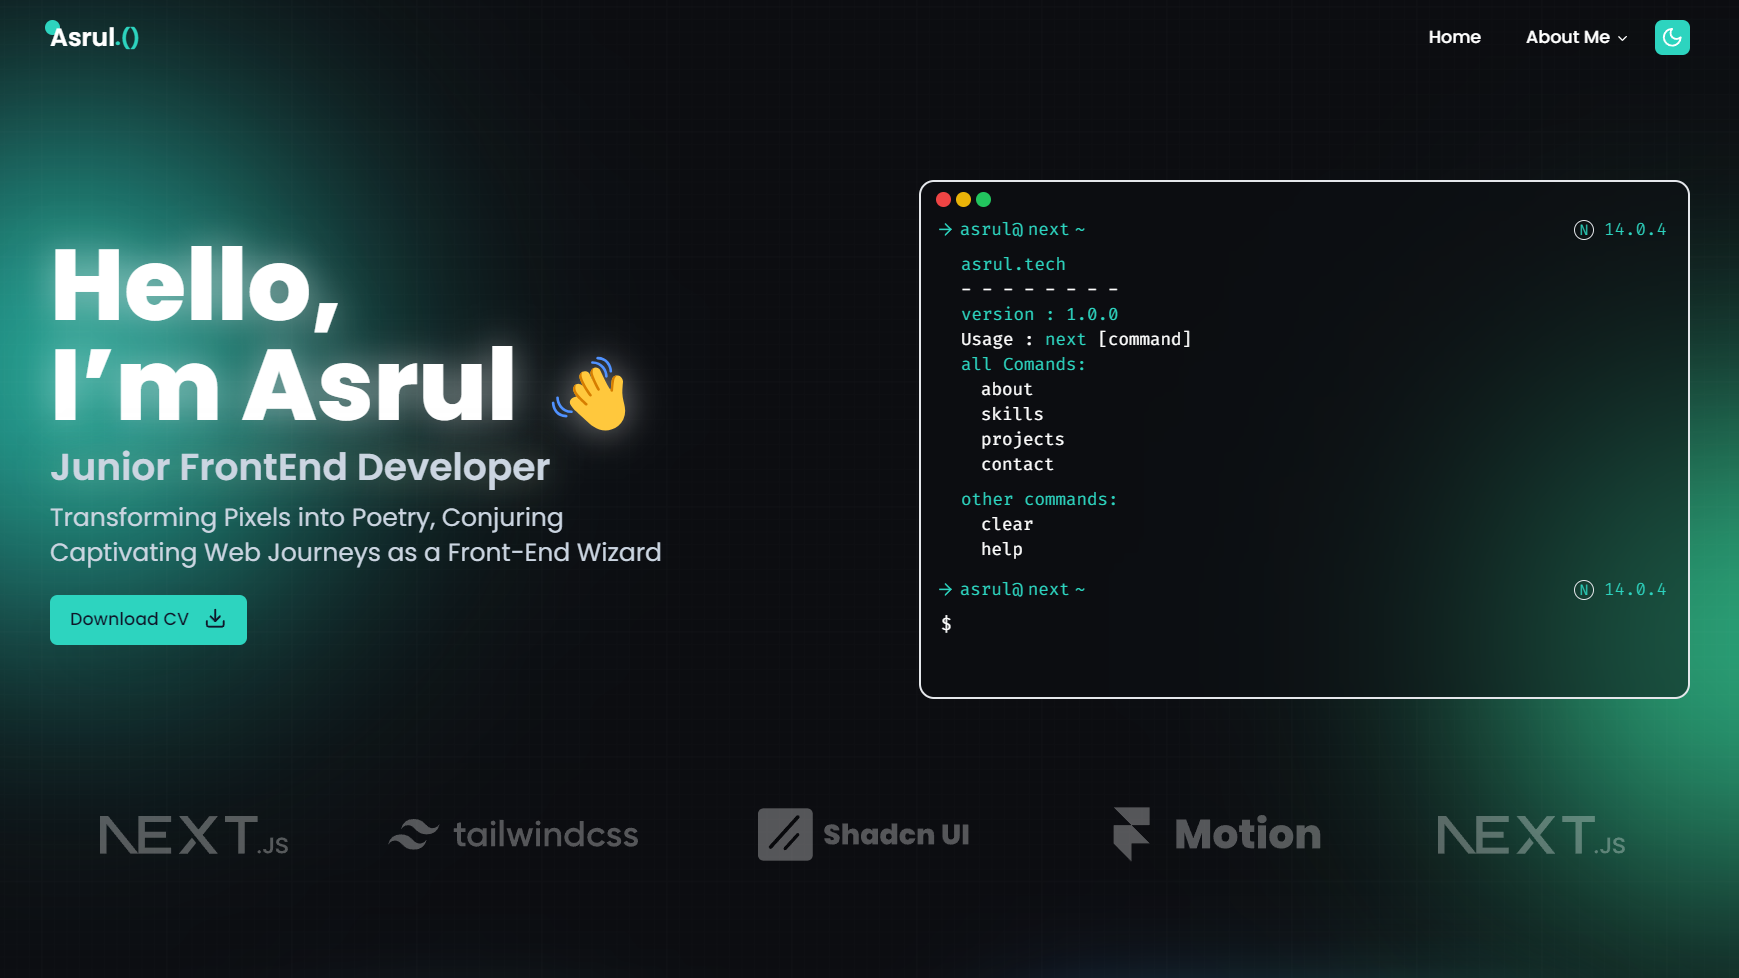
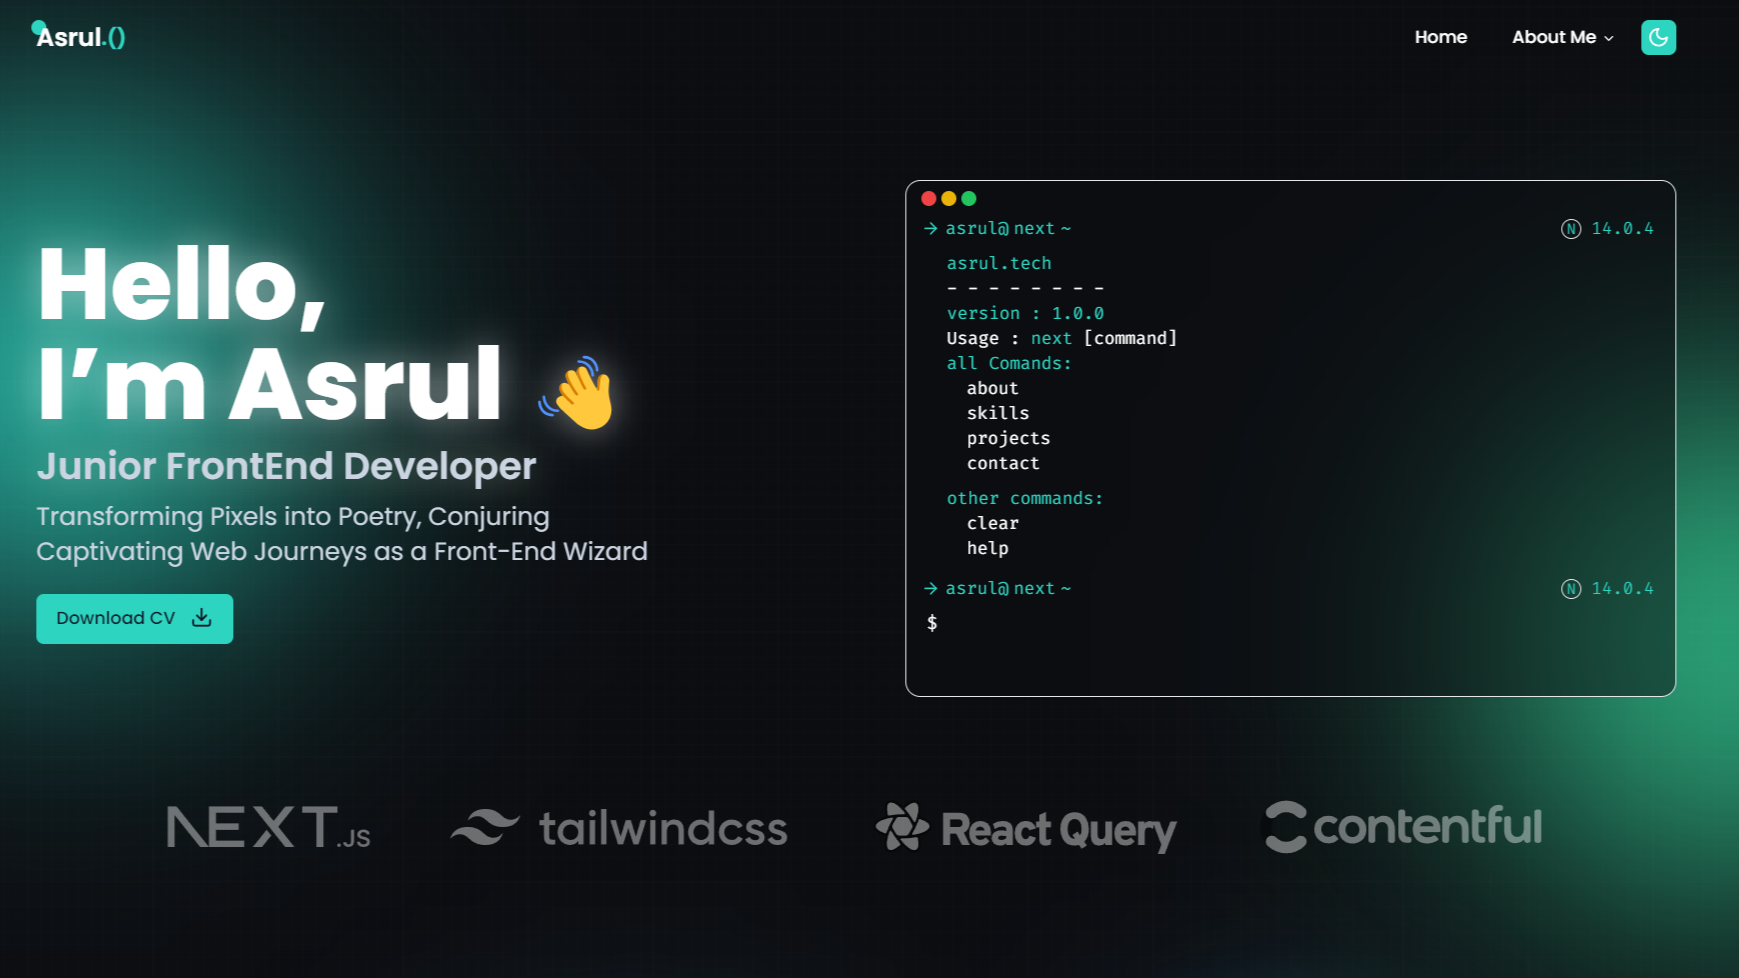
Feat : Improve accessibility

diff --git a/components/layouts/Navbar.tsx b/components/layouts/Navbar.tsx
@@ -45,7 +45,7 @@ export default function Navbar({}: Props) {
   }, [darkMode, setTheme]);
 
   return (
-    <nav
+    <header
       className={cn(
         `px-container fixed top-0 z-40 flex w-full  justify-between py-3 text-white transition-colors duration-700 ${
           isAtTop
@@ -62,54 +62,52 @@ export default function Navbar({}: Props) {
       </Link>
       {/* Mobile */}
       {screenWidth < 1024 ? (
-        <div className="">
-          <Sheet open={open}>
-            <SheetTrigger
-              onClick={() => {
-                setOpen(true);
-              }}
-              aria-label="Open Menu"
-              className={`${
-                open ? "hidden" : "block"
-              } text-slate-500 dark:text-white`}
-            >
-              <AlignLeft />
-            </SheetTrigger>
-            <SheetContent className="lg:hidden" setOpen={setOpen}>
-              <ul className="flex flex-col gap-7">
-                {menuItems.map((link) => (
-                  <li key={link.name}>
-                    <Link
-                      href={link.href}
-                      className={`flex items-center gap-5 text-lg text-slate-500 dark:text-white `}
-                    >
-                      <div
-                        className={cn(
-                          `flex h-11 w-11 items-center justify-center rounded-full border-2 border-slate-400 dark:border-white dark:text-white
+        <Sheet open={open}>
+          <SheetTrigger
+            onClick={() => {
+              setOpen(true);
+            }}
+            aria-label="Open Menu"
+            className={`${
+              open ? "hidden" : "block"
+            } text-slate-500 dark:text-white`}
+          >
+            <AlignLeft />
+          </SheetTrigger>
+          <SheetContent className="lg:hidden" setOpen={setOpen}>
+            <ul className="flex flex-col gap-7">
+              {menuItems.map((link) => (
+                <li key={link.name}>
+                  <Link
+                    href={link.href}
+                    className={`flex items-center gap-5 text-lg text-slate-500 dark:text-white `}
+                  >
+                    <div
+                      className={cn(
+                        `flex h-11 w-11 items-center justify-center rounded-full border-2 border-slate-400 dark:border-white dark:text-white
                           ${
                             pathname === link.href
                               ? "bg-white dark:text-primary"
                               : ""
                           }
                           `,
-                        )}
-                      >
-                        <link.Icon size={18} className={cn("")} />
-                      </div>
-                      {link.name}
-                    </Link>
-                  </li>
-                ))}
-              </ul>
-              <ThemeButton />
-            </SheetContent>
-          </Sheet>
-        </div>
+                      )}
+                    >
+                      <link.Icon size={18} className={cn("")} />
+                    </div>
+                    {link.name}
+                  </Link>
+                </li>
+              ))}
+            </ul>
+            <ThemeButton />
+          </SheetContent>
+        </Sheet>
       ) : (
         <div className="hidden lg:block">
           <NavMenu />
         </div>
       )}
-    </nav>
+    </header>
   );
 }

diff --git a/components/sections/home/MainSection.tsx b/components/sections/home/MainSection.tsx
@@ -11,7 +11,7 @@ export default function MainSection({}: Props) {
       <article className="relative z-10 flex w-full flex-col items-center justify-between gap-20 lg:flex-row">
         {/* Hero Title */}
         <div className="w-full ">
-          <h1 className="text-[45px] font-extrabold leading-none text-slate-700 drop-shadow-[0_0_15px_rgba(200,218,189,0.5)] dark:text-white dark:drop-shadow-[0_0_15px_rgba(255,255,255,0.5)] sm:text-[60px] md:text-[64px] lg:text-[80px]">
+          <h1 className="text-[45px] font-bold leading-none text-slate-700 drop-shadow-[0_0_15px_rgba(200,218,189,0.5)] dark:text-white dark:drop-shadow-[0_0_15px_rgba(255,255,255,0.5)] sm:text-[60px] md:text-[64px] lg:text-[80px]">
             Hello,
             <br />
             I’m Asrul{" "}
@@ -39,7 +39,7 @@ export default function MainSection({}: Props) {
       {/* Built With */}
       <Blob className="-left-20 -top-10 h-72 w-72 bg-teal-400 blur-[90px] lg:-left-44 lg:h-96 lg:w-96 lg:blur-[120px]" />
       <Blob className="-right-20 top-44 h-64 w-64 bg-emerald-400 blur-[90px]   lg:-right-60 lg:bottom-40 lg:h-96 lg:w-96 lg:blur-[120px]" />
-      <div className="mt-10 flex w-full flex-wrap justify-center gap-10 opacity-40 md:my-20">
+      <div className="my-20 flex w-full flex-wrap justify-center gap-10 opacity-40">
         <Image
           alt="Next js"
           src="/nextjs.svg"
@@ -52,7 +52,7 @@ export default function MainSection({}: Props) {
           src="/tailwindcss.svg"
           width={300}
           height={100}
-          className="w-[160px] scale-90 dark:invert sm:w-[300px]"
+          className="w-[175px] scale-90 dark:invert sm:w-[300px]"
         />
         <Image
           alt="React Query"
@@ -66,7 +66,7 @@ export default function MainSection({}: Props) {
           src="/contentful.svg"
           width={250}
           height={100}
-          className="w-[130px] scale-90 dark:invert sm:w-[250px]"
+          className="w-[135px] scale-90 dark:invert sm:w-[250px]"
         />
       </div>
     </section>

diff --git a/app/about/page.tsx b/app/about/page.tsx
@@ -17,10 +17,10 @@ export default function page({}: Props) {
           tagStyle="text-teal-400 font-bold"
         />
         <div className="flex w-full flex-col-reverse items-center justify-evenly gap-14 lg:flex-row">
-          <div className="w-full max-w-xl">
-            <h1 className="max-w-lg text-[40px] font-bold leading-none text-slate-600 dark:text-white lg:text-[48px]">
+          <article className="w-full max-w-xl">
+            <header className="max-w-lg text-[40px] font-bold leading-none text-slate-600 dark:text-white lg:text-[48px]">
               Muhammad Asrul Rifa Anwar
-            </h1>
+            </header>
             <p className="mt-5 text-slate-500 dark:text-slate-300">
               I am a junior frontend developer with a primary focus on React.js,
               Next.js, Tailwind CSS, and Framer Motion technologies. I am an
@@ -58,7 +58,7 @@ export default function page({}: Props) {
                 </Button>
               ))}
             </div>
-          </div>
+          </article>
           <div className="relative aspect-square w-full max-w-xs overflow-hidden rounded-2xl object-contain lg:max-w-sm">
             <Image
               src={AboutImage}

diff --git a/components/sections/home/StatSection.tsx b/components/sections/home/StatSection.tsx
@@ -8,7 +8,7 @@ type Props = {};
 export default function StatSection({}: Props) {
   return (
     <section className="flex flex-col items-center gap-5">
-      <div className="mx-auto  mt-20 grid w-full auto-cols-auto auto-rows-auto grid-cols-1 gap-5 sm:grid-cols-bento-sm sm:grid-rows-2 md:grid-cols-bento-md lg:grid-cols-bento-lg xl:w-[80%]">
+      <div className="mx-auto grid w-full auto-cols-auto auto-rows-auto grid-cols-1 gap-5 sm:grid-cols-bento-sm sm:grid-rows-2 md:grid-cols-bento-md lg:grid-cols-bento-lg xl:w-[80%]">
         <SkillMeteor />
         <GithubStat />
         <WakatimeStat />

diff --git a/app/layout.tsx b/app/layout.tsx
@@ -7,12 +7,12 @@ import Theme from "@/services/providers/ThemeProvider";
 import { cn } from "@/utils/utils";
 
 const poppins = Poppins({
-  weight: ["300", "400", "500", "600", "700", "800"],
+  weight: ["400", "500", "600", "700"],
   subsets: ["latin"],
 });
 
 const firaCode = Fira_Code({
-  weight: ["300", "400", "500"],
+  weight: ["400"],
   subsets: ["latin"],
   variable: "--firaCode",
 });

diff --git a/components/layouts/NavMenu.tsx b/components/layouts/NavMenu.tsx
@@ -52,6 +52,7 @@ export function NavMenu() {
         size="icon"
         className="ml-1 h-7 w-7 bg-slate-500 hover:bg-slate-500/70 dark:bg-teal-400 dark:text-white dark:hover:bg-teal-400/70"
         onClick={toogle}
+        aria-label="Toggle Dark Mode"
       >
         <MoonIcon size={18} />
       </Button>
